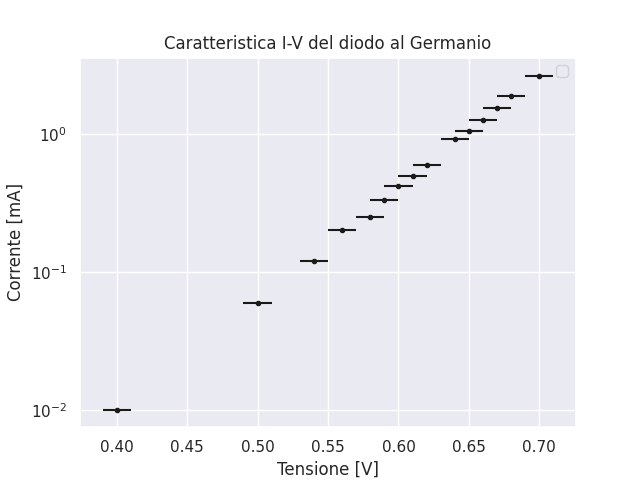
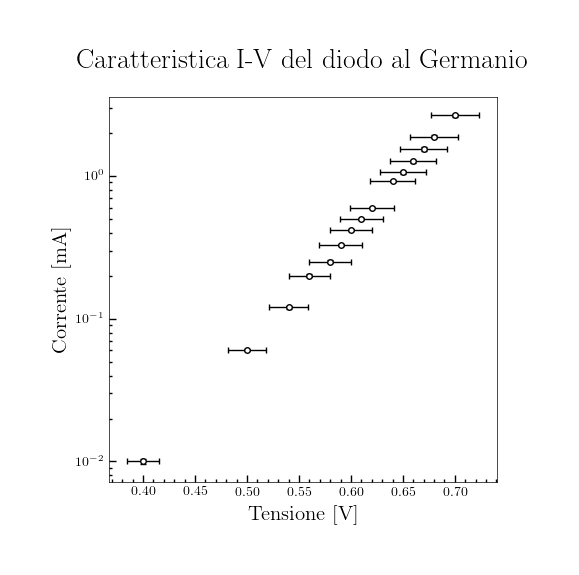
default

diff --git a/seconda_prova/parser.cpp b/seconda_prova/parser.cpp
@@ -19,7 +19,7 @@ struct Error_Point
 
 struct Error_Point_Array
 {
-    Error_Point el[9];
+    Error_Point el[25];
     Error_Point_Array(){}
 
     double fit_value(std::string scale)
@@ -30,7 +30,7 @@ struct Error_Point_Array
 
     friend std::istream& operator>>(std::istream& is, Error_Point_Array& arr)
     {
-        for(int i=0;i<9;i++)
+        for(int i=0;i<25;i++)
 	{
 	    is>>arr.el[i];
 	}
@@ -39,10 +39,10 @@ struct Error_Point_Array
     friend std::ostream& operator<<(std::ostream& os, Error_Point_Array& arr)
     {
         os<<"V = [";
-	for(int i=0;i<9;i++)
+	for(int i=0;i<25;i++)
 	{
 	    os<<arr.el[i].V;
-	    if( i < 8)
+	    if( i < 24)
 	        os<<", ";
 	    else
 	        os<<"]";
@@ -50,10 +50,10 @@ struct Error_Point_Array
 	os<<"\n";
 
         os<<"e_V = [";
-	for(int i=0;i<9;i++)
+	for(int i=0;i<25;i++)
 	{
 	    os<<arr.el[i].e_V;
-	    if( i < 8)
+	    if( i < 24)
 	        os<<", ";
 	    else
 	        os<<"]";
@@ -61,10 +61,10 @@ struct Error_Point_Array
 	os<<"\n";
 
         os<<"I = [";
-	for(int i=0;i<9;i++)
+	for(int i=0;i<25;i++)
 	{
 	    os<<arr.el[i].I;
-	    if( i < 8)
+	    if( i < 24)
 	        os<<", ";
 	    else
 	        os<<"]";
@@ -72,10 +72,10 @@ struct Error_Point_Array
 	os<<"\n";
 
         os<<"e_I = [";
-	for(int i=0;i<9;i++)
+	for(int i=0;i<25;i++)
 	{
 	    os<<arr.el[i].e_I;
-	    if( i < 8)
+	    if( i < 24)
 	        os<<", ";
 	    else
 	        os<<"]";
@@ -89,37 +89,16 @@ struct Error_Point_Array
 int main() 
 {
    std::ifstream input;
-   input.open("calibrazione/dati.txt");
+   input.open("dati.txt");
    Error_Point_Array pydata;
    input>>pydata;
    input.close();
 
    std::ofstream output;
-   output.open("calibrazione/dati.py");
+   output.open("dati.py");
    output<<pydata;
    output.close();
    
-   /*std::ifstream input_1;
-   input_1.open("germanio/dati.txt");
-   Error_Point_Array pydata_1;
-   input_1>>pydata_1;
-   input_1.close();
-
-   std::ofstream output_1;
-   output_1.open("germanio/dati.py");
-   output_1<<pydata_1;
-   output_1.close();
-   
-   std::ifstream input_2;
-   input_2.open("silicio/dati.txt");
-   Error_Point_Array pydata_2;
-   input_2>>pydata_2;
-   input_2.close();
-
-   std::ofstream output_2;
-   output_2.open("silicio/dati.py");
-   output_2<<pydata_2;
-   output_2.close();*/
 }
 
 

diff --git a/prima_prova/silicio/dati.py b/prima_prova/silicio/dati.py
@@ -1,4 +1,4 @@
-V = [0.07, 0.08, 0.1, 0.12, 0.14, 0.16, 0.18, 0.2, 0.24, 0.26, 0.28, 0.29, 0.3, 0.31, 0.32]
-e_V = [0.01, 0.01, 0.01, 0.01, 0.01, 0.01, 0.01, 0.01, 0.01, 0.01, 0.01, 0.01, 0.01, 0.01, 0.01]
-I = [0.01, 0.01, 0.02, 0.04, 0.07, 0.1, 0.16, 0.24, 0.53, 0.73, 1.07, 1.26, 1.48, 1.74, 2.03]
-e_I = [0.0004, 0.0004, 0.0005, 0.0007, 0.001, 0.004, 0.005, 0.005, 0.008, 0.01, 0.04, 0.04, 0.04, 0.05, 0.05]
+V = [0.08, 0.1, 0.12, 0.14, 0.16, 0.18, 0.2, 0.24, 0.26, 0.28, 0.29, 0.3, 0.31, 0.32]
+e_V = [0.01, 0.01, 0.01, 0.01, 0.01, 0.01, 0.01, 0.01, 0.01, 0.01, 0.01, 0.01, 0.01, 0.01]
+I = [0.01, 0.02, 0.04, 0.07, 0.1, 0.16, 0.24, 0.53, 0.73, 1.07, 1.26, 1.48, 1.74, 2.03]
+e_I = [0.0004, 0.0005, 0.0007, 0.001, 0.004, 0.005, 0.005, 0.008, 0.01, 0.04, 0.04, 0.04, 0.05, 0.05]

diff --git a/prima_prova/calibrazione/calibrazione.py b/prima_prova/calibrazione/calibrazione.py
@@ -1,16 +1,21 @@
 import numpy
 import seaborn
-from math import exp
+from math import exp,sqrt
 from matplotlib import pyplot
 from dati import V_mul, e_V_mul, V_osc, e_V_osc
 
-seaborn.set()
+pyplot.style.use('my_style')
 
-pyplot.errorbar(V_mul, V_osc, e_V_osc, e_V_mul, fmt='.k')
+for i in range(0,9):
+    e_V_osc[i] = sqrt(e_V_osc[i]**2+(0.03*V_osc[i])**2)
+
+#print(e_V_osc)
+
+pyplot.errorbar(V_mul, V_osc, e_V_osc, e_V_mul, fmt='ok')
 pyplot.yscale('linear') 
 pyplot.xlabel('Tensione Multimetro [V]')
-pyplot.ylabel('Corrente Oscilloscopio [V]')
+pyplot.ylabel('Tensione Oscilloscopio [V]')
 pyplot.title('Calibrazione Oscilloscopio-Multimetro')
-pyplot.legend()
+#pyplot.legend()
 pyplot.savefig('calibrazione.png')
 

diff --git a/prima_prova/germanio/germanio.py b/prima_prova/germanio/germanio.py
@@ -1,15 +1,20 @@
 import numpy
-import seaborn
-from math import exp
+from math import exp,sqrt
 from matplotlib import pyplot
 from dati import V, e_V, I, e_I
 
-seaborn.set()
+#seaborn.set()
 
-pyplot.errorbar(V, I, e_I, e_V, fmt='.k')
+for i in range(0,15):
+    e_V[i]=sqrt(e_V[i]**2+(0.03*V[i])**2)
+
+pyplot.style.use('my_style')
+#print(e_V)
+
+pyplot.errorbar(V, I, e_I, e_V, fmt='ok')
 pyplot.yscale('log')
 pyplot.xlabel('Tensione [V]')
 pyplot.ylabel('Corrente [mA]')
 pyplot.title('Caratteristica I-V del diodo al Germanio')
-pyplot.legend()
+#pyplot.legend()
 pyplot.savefig('germanio.png')

diff --git a/prima_prova/silicio/silicio.py b/prima_prova/silicio/silicio.py
@@ -1,15 +1,21 @@
 import numpy
 import seaborn
-from math import exp
+from math import exp,sqrt
 from matplotlib import pyplot
 from dati import V, e_V, I, e_I
 
-seaborn.set()
+for i in range(0,14):
+    e_V[i]=sqrt(e_V[i]**2+(0.03*V[i])**2)
 
-pyplot.errorbar(V, I, e_I, e_V, fmt='.k')
+#print(e_V)
+
+#seaborn.set()
+pyplot.style.use('my_style')
+
+pyplot.errorbar(V, I, e_I, e_V, fmt='ok')
 pyplot.yscale('log')
 pyplot.xlabel('Tensione [V]')
 pyplot.ylabel('Corrente [mA]')
 pyplot.title('Caratteristica I-V del diodo al Silicio')
-pyplot.legend()
+#pyplot.legend()
 pyplot.savefig('silicio.png')

diff --git a/prima_prova/calibrazione/dati.py b/prima_prova/calibrazione/dati.py
@@ -1,4 +1,4 @@
-V_mul = [0.099, 0.151, 0.199, 0.294, 0.394, 0.491, 0.591, 0.691, 0.791, 0]
-e_V_mul = [0.0003, 0.0004, 0.0005, 0.0006, 0.0008, 0.0009, 0.001, 0.003, 0.003, 0]
-V_osc = [0.1, 0.15, 0.2, 0.3, 0.4, 0.5, 0.6, 0.7, 0.8, 0]
-e_V_osc = [0.002, 0.005, 0.005, 0.01, 0.01, 0.01, 0.01, 0.02, 0.02, 0]
+V_mul = [0.099, 0.151, 0.199, 0.294, 0.394, 0.491, 0.591, 0.691, 0.791]
+e_V_mul = [0.0003, 0.0004, 0.0005, 0.0006, 0.0008, 0.0009, 0.001, 0.003, 0.003]
+V_osc = [0.1, 0.15, 0.2, 0.3, 0.4, 0.5, 0.6, 0.7, 0.8]
+e_V_osc= [0.002, 0.005, 0.005, 0.01, 0.01, 0.01, 0.01, 0.02, 0.02]

diff --git a/prima_prova/germanio/dati.py b/prima_prova/germanio/dati.py
@@ -1,4 +1,4 @@
 V = [0.4, 0.5, 0.54, 0.56, 0.58, 0.59, 0.6, 0.61, 0.62, 0.64, 0.65, 0.66, 0.67, 0.68, 0.7]
 e_V = [0.01, 0.01, 0.01, 0.01, 0.01, 0.01, 0.01, 0.01, 0.01, 0.01, 0.01, 0.01, 0.01, 0.01, 0.01]
 I = [0.01, 0.06, 0.12, 0.2, 0.25, 0.33, 0.42, 0.5, 0.6, 0.92, 1.06, 1.27, 1.55, 1.88, 2.65]
-e_I = [0.0001, 0.0009, 0.003, 0.005, 0.006, 0.006, 0.007, 0.008, 0.009, 0.01, 0.03, 0.03, 0.05, 0.05, 0.06]
+e_I = [0.0004, 0.0009, 0.003, 0.005, 0.006, 0.006, 0.007, 0.008, 0.009, 0.01, 0.03, 0.03, 0.05, 0.05, 0.06]
